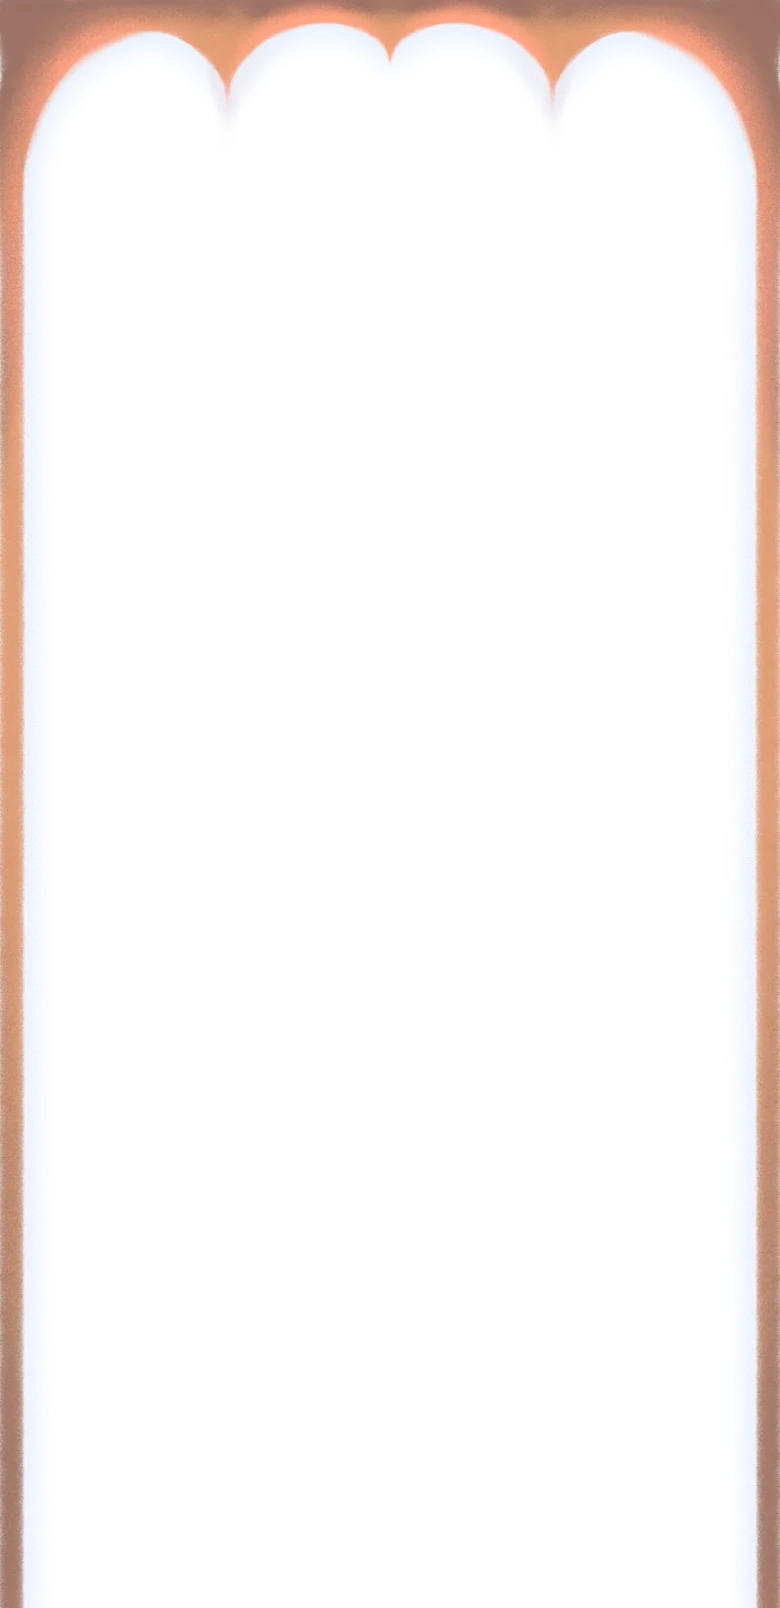
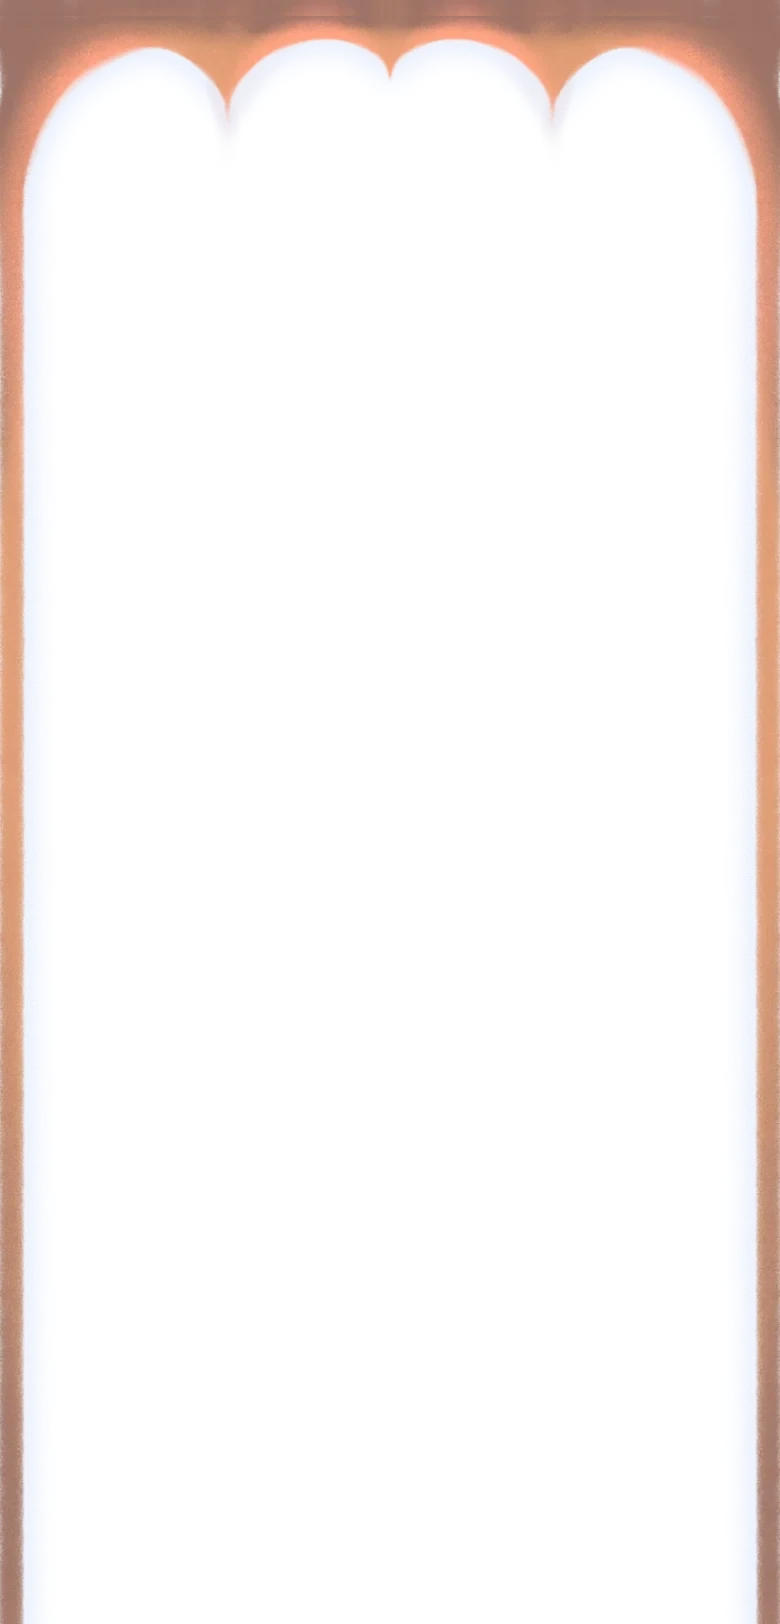
Arch top: the frame band now runs above the scallops, so all four show whole just under the clock instead of being sliced off by the screen edge; a little more depth in the frame and a whiter top pill that stands clear of the pink. The opening animation's frame matches

Changed region(s): [[0.0308, 0.0, 0.9846, 0.1244], [0.9846, 0.0311, 1.0, 0.0622]]

diff --git a/sw.js b/sw.js
@@ -1,5 +1,5 @@
 // Offline cache for the app shell. Bump VERSION when shipping changes.
-const VERSION = 'uts-v1003';
+const VERSION = 'uts-v1004';
 const SHELL = ['./', './index.html', './styles.css', './manifest.json', './icons/icon-192.png', './icons/icon-512.png', './icons/apple-touch-icon.png', './icons/icon-64.png', './icons/icon-32.png', './icons/icon-maskable-512.png',
   './js/app.js', './js/data.js', './js/cycle.js', './js/icons.js', './js/cosmic.js', './js/astro.js', './js/moonguide.js', './js/moon3d.js', './js/figure.js', './js/figure3d.js', './js/torso.js', './js/torso3d.js', './js/photos.js', './js/seasonal.js', './js/world.js', './js/ground.js', './js/athlete.js', './js/bodymap.js', './js/molecules.js', './js/welcome3d.js', './js/teacup3d.js', './js/sfx.js', './js/sun.js', './js/account.js', './js/config.js', './images/planet.jpg', './images/gate-rose.webp', './images/lotus-menstrual.webp', './images/lotus-follicular.webp', './images/lotus-ovulatory.webp', './images/lotus-luteal.webp', './images/period.png', './images/partner-cinema.webp', './images/partner-hands.jpg', './images/ground-roots.jpg', './images/pixel-aura-0.png', './images/pixel-aura-1.png', './images/pixel-aura-2.png', './images/pixel-aura-3.png', './images/sun-moon.webp', './images/sun-moon.mp4', './images/tea-ginger.webp', './images/sun-moon-poster.webp', './images/rhythm-sun.webp', './images/move-stardust.mp4', './images/move-stardust.webp', './images/move-meditate.webp', './images/move-walk.webp', './images/move-yoga.webp', './images/move-sport.webp', './images/move-pilates.webp', './images/move-hiit.webp', './images/move-lift.webp', './images/season-veg.webp', './images/season-fruit.webp', './images/stress-meditate.mp4', './images/stress-meditate.webp', './images/stress-breathe.mp4', './images/stress-breathe.webp', './images/forest-path.jpg', './images/welcome-forest.jpg', './images/intro-forest.jpg', './images/forest-calm.jpg', './images/tile-meditate.webp', './images/tile-ground.webp', './images/tile-walk.webp', './images/tile-yoga.webp', './images/tile-sport.webp', './images/tile-pilates.webp', './images/tile-hiit.webp', './images/tile-lift.webp', './images/purpose-body.jpg', './images/purpose-conceive.jpg', './images/period-food.webp', './images/plate.webp', './images/read-lilies.webp', './images/read-seasons.webp', './models/body2.glb', './models/teacup.glb', './models/matcha.glb', './models/greentea.glb', './images/cup-matcha.webp', './models/soup.glb', './images/dish-soup.webp', './models/pho.glb', './images/dish-pho.webp', './models/miso.glb', './images/dish-miso.webp', './models/stew.glb', './images/dish-stew.webp', './models/veg-plate.glb', './models/salad-a.glb', './images/dish-salad-a.webp', './models/salad-b.glb', './images/dish-salad-b.webp', './images/dish-veg.webp', './models/taco.glb', './images/dish-taco.webp', './models/gyro.glb', './images/dish-gyro.webp', './models/marrow.glb', './images/dish-marrow.webp', './models/curry.glb', './images/dish-curry.webp', './models/steak.glb', './images/dish-steak.webp', './models/sweet-potato.glb', './images/dish-sweet-potato.webp', './models/mint-tea.glb', './images/cup-mint.webp', './models/chamomile.glb', './images/cup-chamomile.webp', './models/cortisol.glb', './images/cortisol-mol.webp', './models/moon.glb', './images/cup-chai.webp', './images/cup-glass.webp', './sounds/forest-stream.m4a', './images/herbs/astragalus.svg', './images/herbs/red-dates.svg', './images/herbs/ginger.svg', './images/herbs/clove.svg', './images/herbs/cinnamon.svg', './images/herbs/goji.svg', './images/herbs/reishi.svg', './images/herbs/chaga.svg', './images/herbs/he-shou-wu.svg', './images/drinks/broth.svg', './images/drinks/cacao.svg', './images/drinks/chamomile-tea.svg', './images/drinks/coconut-water.svg', './images/drinks/coffee.svg', './images/drinks/ginger-tea.svg', './images/drinks/green-juice.svg', './images/drinks/hibiscus-tea.svg', './images/drinks/iced-matcha.svg', './images/drinks/lemon-water.svg', './images/drinks/matcha-latte.svg', './images/drinks/matcha.svg', './images/drinks/mineral-water.svg', './images/drinks/nettle-tea.svg', './images/drinks/raspberry-leaf-tea.svg', './images/drinks/red-date-tea.svg', './images/emoji/log-cramps.svg', './images/emoji/log-pelvic-pain.svg', './images/emoji/log-joint-pain.svg', './images/emoji/log-constipation.svg', './images/emoji/log-acne.svg', './images/emoji/log-brain-fog.svg', './images/emoji/log-unusual-colour.svg', './images/emoji/amla.svg', './images/emoji/apricot.svg', './images/emoji/artichoke.svg', './images/emoji/asian-pear.svg', './images/emoji/bamboo-shoot.svg', './images/emoji/bean-sprouts.svg', './images/emoji/bitter-gourd.svg', './images/emoji/black-trumpet.svg', './images/emoji/blackberry.svg', './images/emoji/bottle-gourd.svg', './images/emoji/brussels-sprouts.svg', './images/emoji/burdock.svg', './images/emoji/button-mushroom.svg', './images/emoji/cardoon.svg', './images/emoji/cassava.svg', './images/emoji/cauliflower.svg', './images/emoji/celeriac.svg', './images/emoji/chanterelle.svg', './images/emoji/chard.svg', './images/emoji/chayote.svg', './images/emoji/cloudberry.svg', './images/emoji/cranberry.svg', './images/emoji/currants.svg', './images/emoji/custard-apple.svg', './images/emoji/daikon.svg', './images/emoji/dandelion.svg', './images/emoji/dragon-fruit.svg', './images/emoji/drumsticks.svg', './images/emoji/elderberry.svg', './images/emoji/enoki.svg', './images/emoji/feijoa.svg', './images/emoji/fiddlehead.svg', './images/emoji/green-plum.svg', './images/emoji/guava.svg', './images/emoji/horseradish.svg', './images/emoji/jackfruit.svg', './images/emoji/jamun.svg', './images/emoji/jerusalem-artichoke.svg', './images/emoji/kale.svg', './images/emoji/king-oyster.svg', './images/emoji/kohlrabi.svg', './images/emoji/korean-melon.svg', './images/emoji/leek.svg', './images/emoji/lingonberry.svg', './images/emoji/lions-mane.svg', './images/emoji/long-beans.svg', './images/emoji/loquat.svg', './images/emoji/lotus-root.svg', './images/emoji/lychee.svg', './images/emoji/mangosteen.svg', './images/emoji/morel.svg', './images/emoji/okra.svg', './images/emoji/oyster-mushroom.svg', './images/emoji/papaya.svg', './images/emoji/parsnip.svg', './images/emoji/passion-fruit.svg', './images/emoji/persimmon.svg', './images/emoji/plum.svg', './images/emoji/porcini.svg', './images/emoji/prickly-pear.svg', './images/emoji/rambutan.svg', './images/emoji/raspberry.svg', './images/emoji/ridge-gourd.svg', './images/emoji/rosehip.svg', './images/emoji/salsify.svg', './images/emoji/samphire.svg', './images/emoji/sea-buckthorn.svg', './images/emoji/shiitake.svg', './images/emoji/spring-onion.svg', './images/emoji/starfruit.svg', './images/emoji/tamarind.svg', './images/emoji/taro.svg', './images/emoji/turnip.svg', './images/emoji/watercress.svg', './images/emoji/yuzu.svg', './images/emoji/almonds.webp', './images/emoji/asparagus.webp', './images/emoji/beetroot.webp', './images/emoji/black-sesame.webp', './images/emoji/cardamom.webp', './images/emoji/chia.webp', './images/emoji/cinnamon.webp', './images/emoji/fennel-seeds.webp', './images/emoji/fennel.webp', './images/emoji/fig.webp', './images/emoji/flaxseed.webp', './images/emoji/goji.webp', './images/emoji/hemp.webp', './images/emoji/liver.webp', './images/emoji/pomegranate.webp', './images/emoji/pumpkin-seeds.webp', './images/emoji/quince.webp', './images/emoji/radish.webp', './images/emoji/red-dates.webp', './images/emoji/rhubarb.webp', './images/emoji/sesame.webp', './images/emoji/sunflower-seeds.webp', './images/emoji/tahini.webp', './images/emoji/turmeric.webp', './images/emoji/walnuts.webp', './images/emoji/black-seed-oil.svg', './images/emoji/cacao.svg', './images/emoji/water.svg', './images/emoji/black-pepper.svg', './images/emoji/cumin.svg', './images/emoji/curry.svg', './images/emoji/dates.svg', './images/emoji/maple-syrup.svg', './images/emoji/mayonnaise.svg', './images/emoji/mustard.svg', './images/emoji/nutmeg.svg', './images/emoji/nutritional-yeast.svg', './images/emoji/paprika.svg', './images/emoji/tamari.svg', './images/emoji/toothpick.svg', './images/emoji/vanilla.svg', './images/bg/mist.webp', './images/bg/arch.webp', './images/bg/leaves.webp', './images/bg/lotus.webp', './images/bg/swirls.webp'];
 

diff --git a/index.html b/index.html
@@ -49,7 +49,7 @@
     #splash { position: fixed; inset: 0; z-index: 9999; overflow: hidden; background: #f0cfc2 url(images/bg/mist.webp) center / 100% 100% no-repeat; transition: opacity .8s ease, visibility .8s; }
     #splash.out { opacity: 0; visibility: hidden; }
     #splash i, #splash .sx-lotus { position: absolute; display: block; background-repeat: no-repeat; pointer-events: none; }
-    #splash .sx-arch { inset: -24px 0 0; background-image: url(images/bg/arch.webp); background-size: 100% 100%; opacity: 0; transform: scale(1.06); animation: sxArch 1.1s cubic-bezier(.2,.8,.2,1) forwards; }
+    #splash .sx-arch { inset: 0; background-image: url(images/bg/arch.webp); background-size: 100% 100%; opacity: 0; transform: scale(1.06); animation: sxArch 1.1s cubic-bezier(.2,.8,.2,1) forwards; }
     #splash .sx-leaves { inset: 0; background-image: url(images/bg/leaves.webp); background-size: 100% 100%; transform-origin: 50% 0; opacity: 0; animation: sxLeaves 1.6s .25s ease-out forwards, sxSway 7s 1.85s ease-in-out infinite alternate; }
     #splash .sx-lotus { left: 12.27%; top: 11.75%; width: 75.46%; height: 25.6%; }
     #splash .sx-flower, #splash .sx-glow { inset: 0; background-image: url(images/bg/lotus.webp); background-size: contain; background-position: center; }

diff --git a/styles.css b/styles.css
@@ -12877,3 +12877,9 @@ html .pv2-3d.sm .cup3d-w canvas.teacup3d { inset: 0; width: 100%; height: 100%; 
 .ul-pf-n { font-size: 34px; line-height: 1; text-align: center; }
 .ul-pf b { font-size: 15px; font-weight: 500; } .ul-pf small { display: block; font-size: 12.5px; color: #6b7462; font-weight: 400; margin-top: 2px; }
 .ul-pf em { font-style: normal; font-size: 13.5px; font-weight: 500; padding: 9px 15px; border-radius: 999px; background: #20301a; color: #fff; }
+/* Arch top, 15 Nov 2026: the frame band now runs above the scallops (images/bg/arch.webp got 24pt of real frame
+   colour on top), so every scallop shows whole just under the clock instead of being sliced by the screen edge.
+   A touch more depth in the frame, and a whiter top pill so it stands clear of the pink. */
+.bgx-arch { inset: 0; filter: saturate(.95) brightness(1.02) hue-rotate(-3deg); }
+.topbar { background: linear-gradient(170deg, rgba(255,255,255,.94), rgba(255,255,255,.82)) !important; border-color: #fff;
+  box-shadow: inset 0 1px 0 #fff, 0 12px 30px -10px rgba(70,40,50,.22) !important; }
